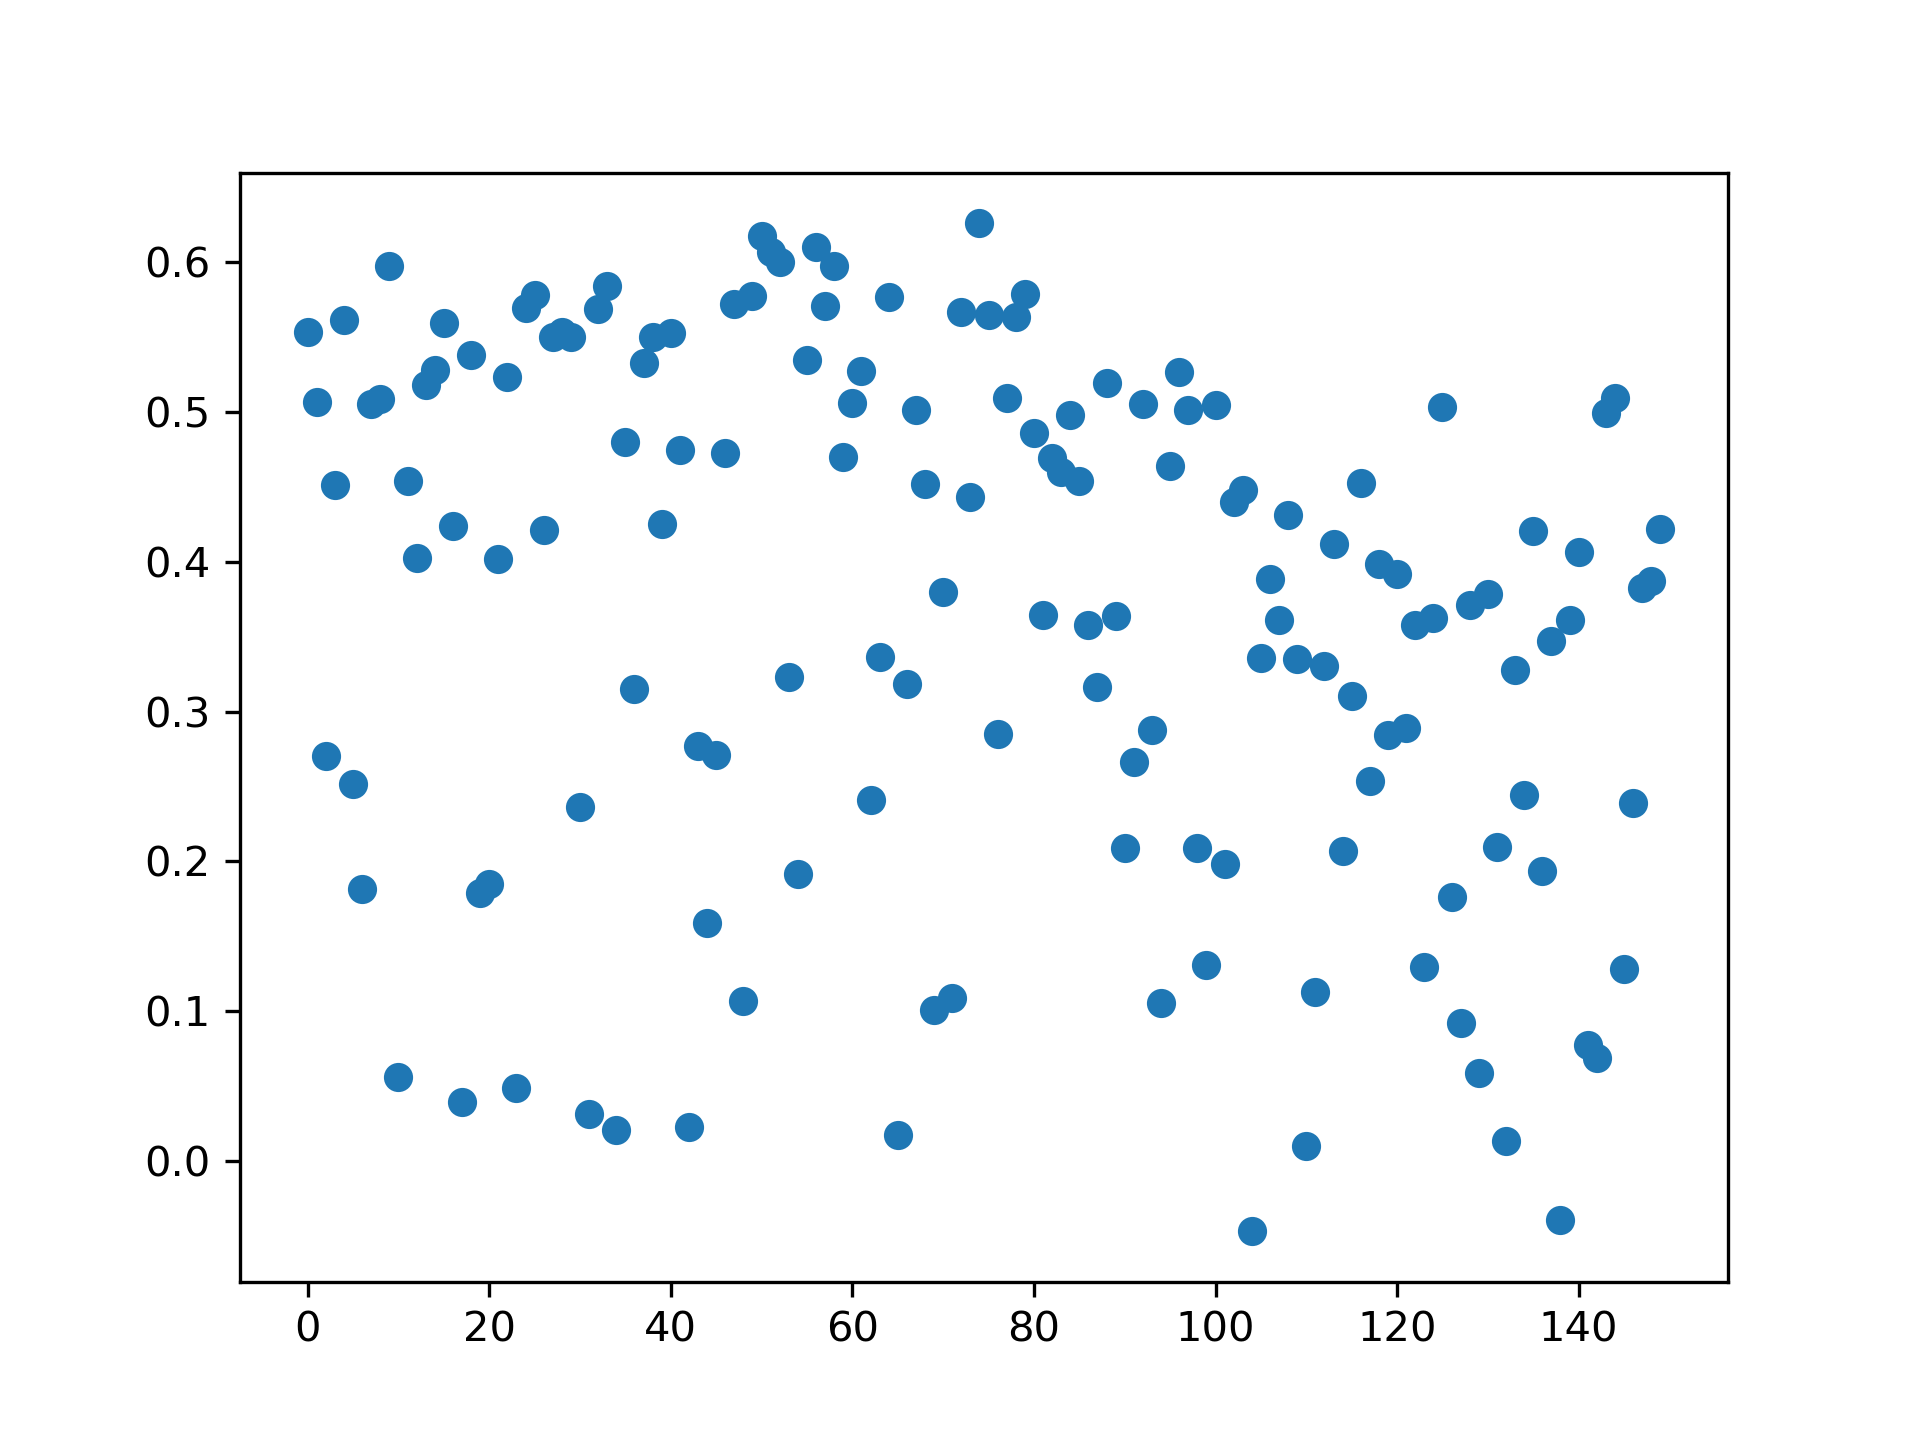
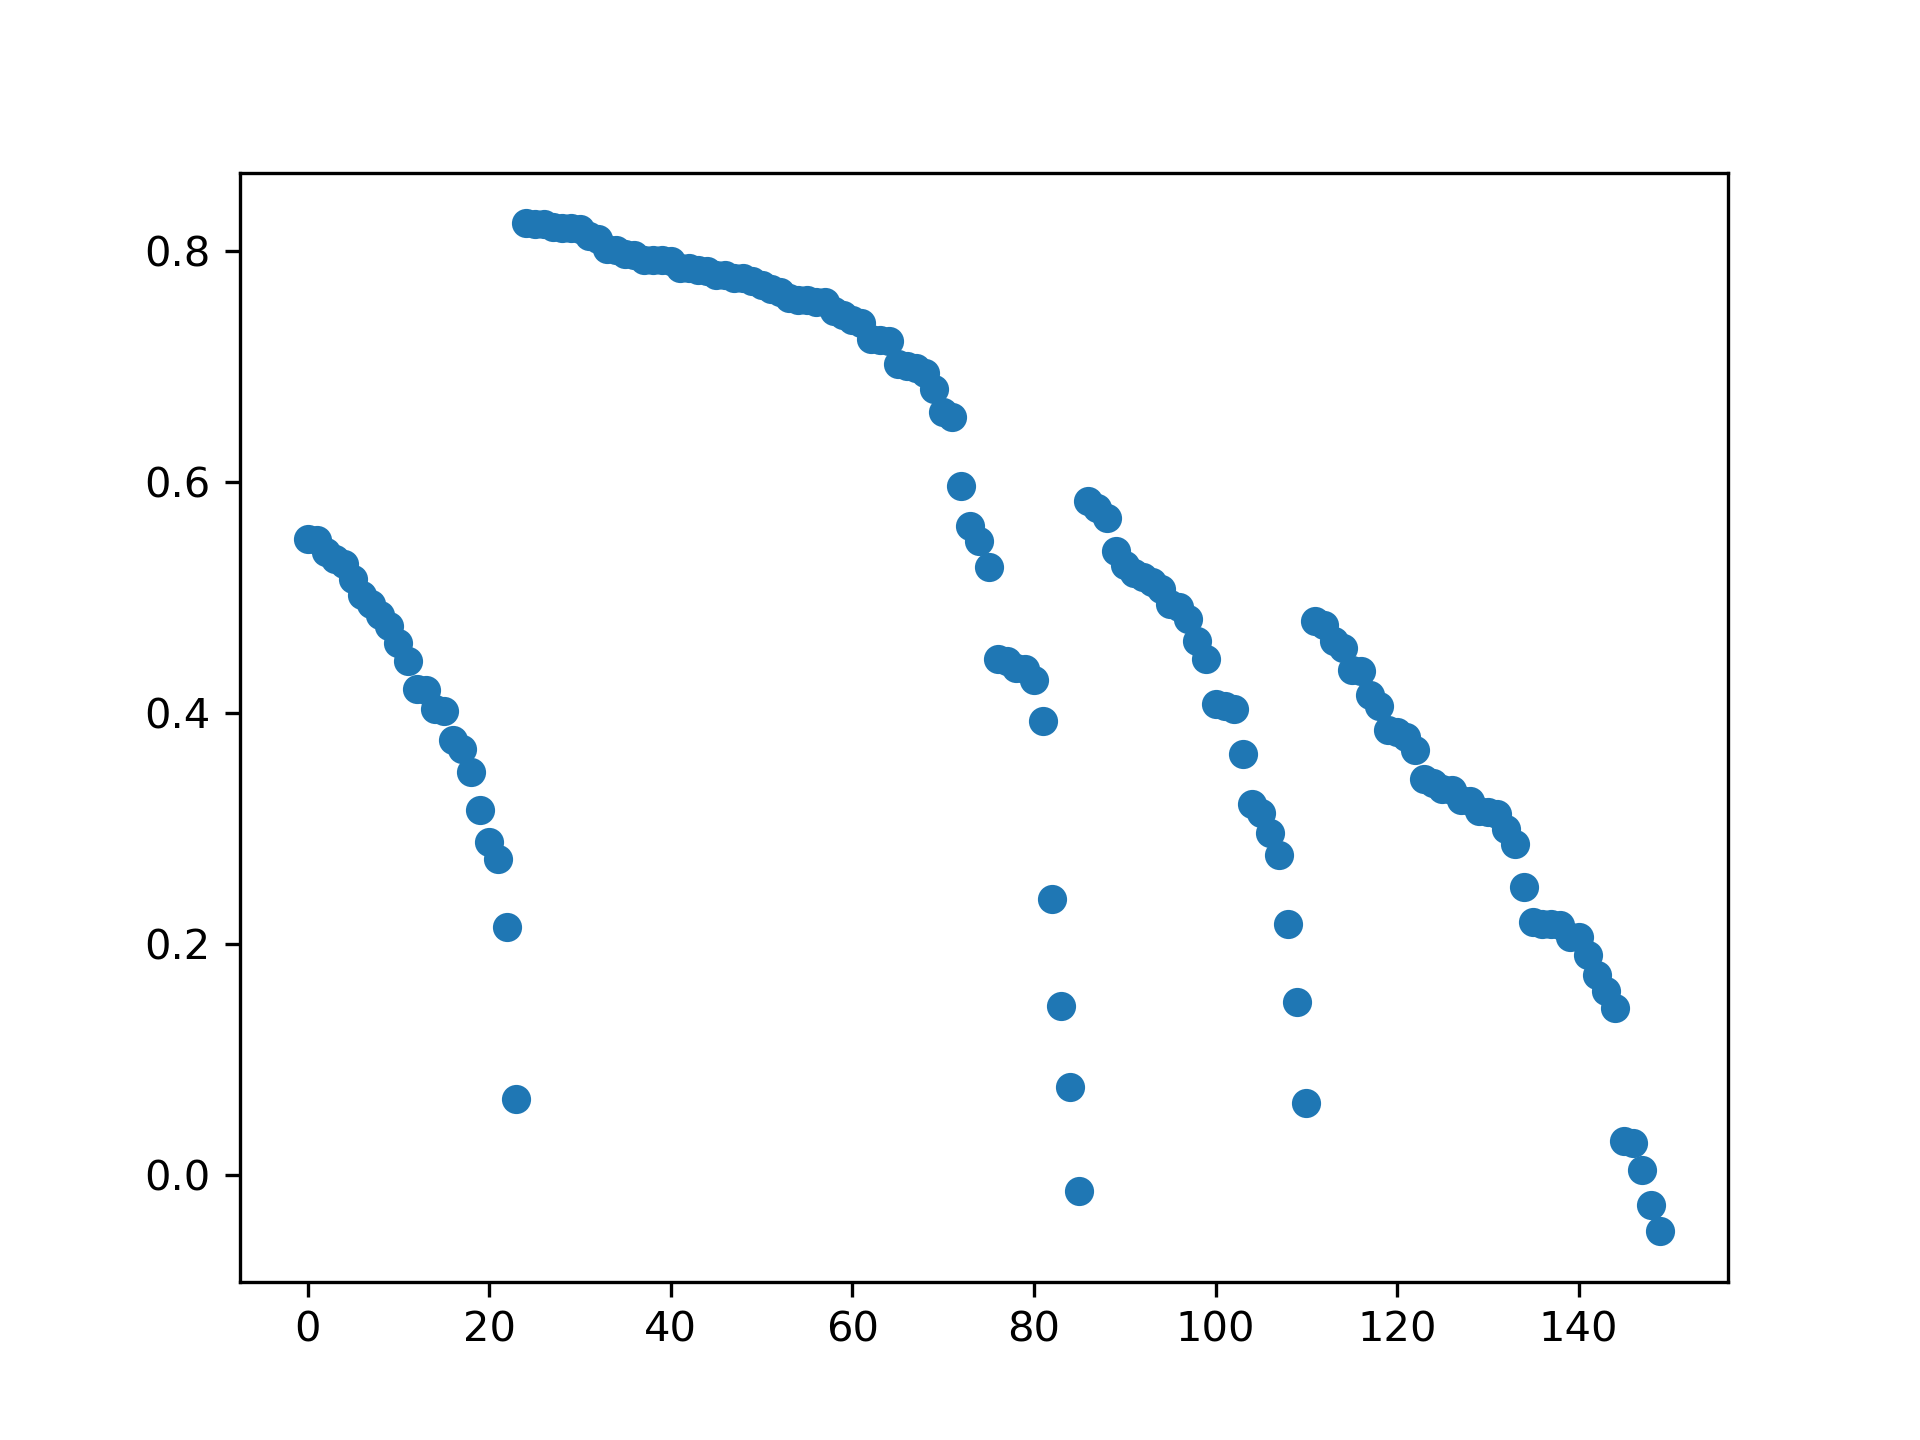
changes the plot sorting

diff --git a/k_meanAssessment.py b/k_meanAssessment.py
@@ -9,19 +9,23 @@ import matplotlib.pyplot as plt
 def main():
     print("Running Iris data Experiments")
     parameters = [(2, 0.01), (3, 0.01), (4, 0.01), (5, 0.01), (6, 0.01)]
+
+    epochs = 3
+
     index = 0
     for parameter in parameters:
         plt.close('all')
         data = pd.read_csv('iris.data', header=None)
-        # result = dbscan.dbscan(data, 4, parameter[0], parameter[1])
-        result =  K_means.k_means(data, parameter[0], parameter[1])
+
+        result, _ = K_means.K_means_w_epochs(data, parameter[0], parameter[1], epochs)
         result[len(result.columns)] = result.index
         clusterDetatails(result, 5, 6, parameter[0], parameter[1])
         puri = assessment.purity(result, 5, 6)
         print("purity: " + str(puri))
         sill = assessment.silhouettecofficient(result, 6, 4)
         print("Silhoutte Coeff: " + str(sill[0]))
-        result = result.sort_values(5)
+
+        result = result.sort_values([5, len(result.columns) - 1], ascending=(True, False))
         result = result.reset_index(drop=True)
         # print(result.head())
         plt.figure()
@@ -39,11 +43,12 @@ def main():
                      ('Synthetic_700S_179N.csv', 24.7, 6)]
     index = 0
 
-    kRange = [2, 3, 4, 5, 6, 7, 8, 9]
-    epsRange = [0.1]
+    kRange = [4, 5, 6, 7, 8, 9, 10]
+    epsRange = [1]
     epochs = 3
 
     for parameter in synParameters:
+        print(parameter[0])
         plt.close('all')
         data = pd.read_csv(parameter[0], header=None)
         # result = dbscan.dbscan(data, 2, parameter[1], parameter[2])
@@ -55,7 +60,9 @@ def main():
         print(puri)
         sill = assessment.silhouettecofficient(result, 4, 2)
         print(sill[0])
-        result = result.sort_values(3)
+        # result = result.sort_values(len(result.columns) - 1, ascending=False)
+        # result = result.sort_values(3)
+        result = result.sort_values([3, len(result.columns) - 1], ascending=(True, False))
         result = result.reset_index(drop=True)
         # print(result.head())
         plt.figure()
@@ -65,13 +72,9 @@ def main():
         plt.savefig(plotname, dpi=300)
         index = index + 1
 
-
-#
-#
-#
 # ('Synthetic_300S_63N.csv',16,3),('Synthetic_400S_63N.csv',16,3),('Synthetic_500S_0N.csv',16,3),('Synthetic_500S_34N.csv',16,3),('Synthetic_500S_66N.csv',16,3),('Synthetic_500S_82N.csv',16,3) ,('Synthetic_500S_99N.csv',16,3) ,('Synthetic_600S_99N.csv',16,3) ,('Synthetic_700S_179N.csv',16,3)
-def clusterDetatails(data, gtlabel, clabel, eps, minpts):
-    print("radius: " + str(eps) + " min points: " + str(minpts))
+def clusterDetatails(data, gtlabel, clabel, Kcluster, eps):
+    print("clusters: " + str(Kcluster) + " epsilon: " + str(eps))
     labels = data[clabel - 1].unique()
     glabels = data[gtlabel - 1].unique()
     count = 0

diff --git a/K_means.py b/K_means.py
@@ -98,17 +98,19 @@ def K_means_w_epochs(data, K, epsilon, epochs):
     sil_v = -1
 
     for epc in range(epochs):
-        print("Epochs =")
-        print(epc)
+        # print("Epochs =")
+        # print(epc)
         out_epoch = k_means(data, K, epsilon)
         out_epoch[len(out_epoch.columns)] = out_epoch.index
         sill_temp = silhouettecofficient(out_epoch, dim + 2, dim)
-        print("silhouete")
-        print(sill_temp[0])
+        # print("silhouete")
+        # print(sill_temp[0])
         if sil_v < sill_temp[0]:
             sil_v = sill_temp[0]
             sil_best_epoch = sill_temp
             result_best_epoch = out_epoch
+    # print("Best silhouete")
+    # print(sil_best_epoch[0])
     return result_best_epoch, sil_best_epoch
 
 def K_means_find_parameters(data, kRange, epsRange, epochs):
@@ -140,7 +142,7 @@ def main():
     result.to_csv('iris.data.result.k_means.csv', index=False, header=False)
 
     # data2 = pd.read_csv('Synthetic_Data_Label.csv', header=None)
-    data2 = pd.read_csv('Synthetic_500S_66N.csv',header=None)
+    data2 = pd.read_csv('Synthetic_500S_66N.csv', header=None)
     result2 = K_means_find_parameters(data2, kRange, epsRange, epochs)
     result2.to_csv('sysnthetic.data.result.k_means.csv', index=False, header=False)
 
